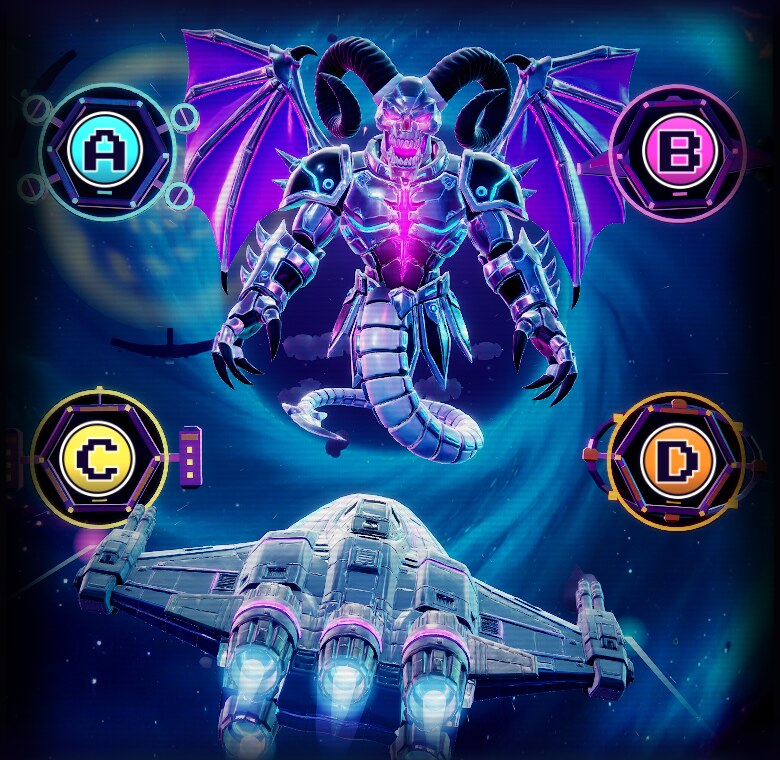
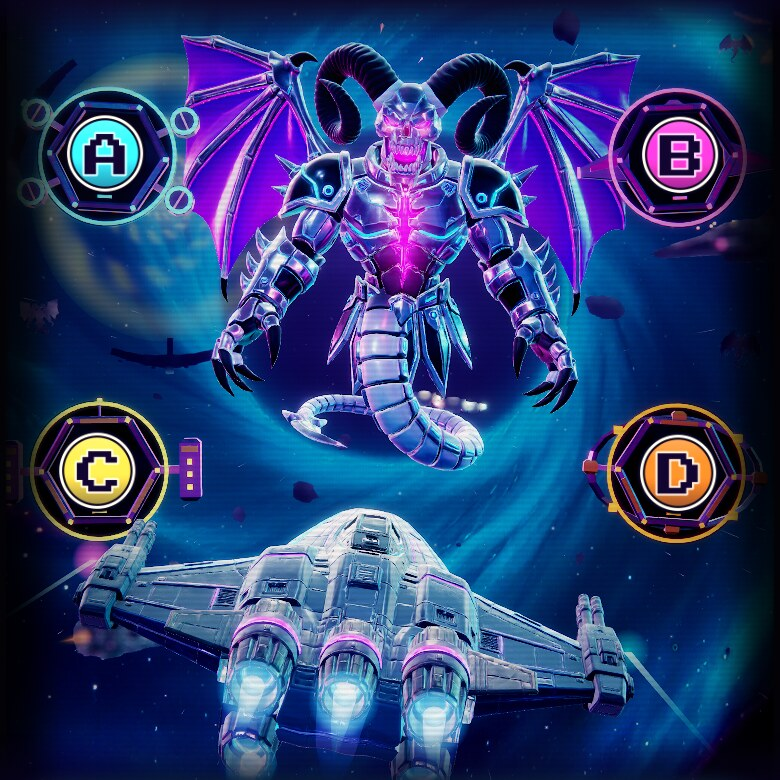
Captures of Risk Blaster's new pieces; the gold props half metal so they read gold in dark space
Strips: the allies' entrance (04), the brood in each region (01-03), the shield lost (23, new part
'shield'), the streak tier's bolt (22), the overlord's death in the band with the stars, its brood
scattering and the next one's entrance (17c and 05, new part 'deathband'). The band strips after the
first ones were taken at --dpr 1: the machine was saturated and dpr 2 frames passed the 30 s
screenshot limit. Boss Rush's scenario gains 'heart' and 'reward' parts.

Claude-Session: https://claude.ai/code/session_01SXN4PWw2h7NprrScNwTTGU

diff --git a/arcade/src/js/08e-propfx.js b/arcade/src/js/08e-propfx.js
@@ -14,12 +14,14 @@
 //   o: { size (world units tall), face (a camera: the prop faces it), turn (radians about its upright), hold, crack,
 //        onBreak (called on the frame it breaks: the caller's sparks and sound), dir, speed, n, life, up }
 if (GFX.extras === undefined) GFX.extras = true; // the background additions and effect props: a quality scaler may switch them off on slow frames
+// (the gold ones are made half metal: in dark space a mirror of gold has little to mirror and reads black, while gold
+// that takes the scene's own lamps reads gold anywhere)
 const PROP_KINDS = {
   shield: { model: "prop-shield", cut: 0, shards: 9, env: 1.1, glow: 2.2 },
   heart: { model: "prop-heart", cut: 0.3, shards: 11, env: 1.3, glow: 2.4 },
-  bolt: { model: "prop-bolt", cut: 0.36, env: 1.2, glow: 2.6 },
-  star: { model: "prop-star", cut: 0.19, many: 12, env: 1.3, glow: 2.2 },
-  coin: { model: "prop-coin", cut: 0, many: 10, env: 1.3, glow: 2 },
+  bolt: { model: "prop-bolt", cut: 0.36, env: 1.4, glow: 2.6, metal: 0.5, rough: 0.4 },
+  star: { model: "prop-star", cut: 0.19, many: 12, env: 1.5, glow: 2.4, metal: 0.45, rough: 0.42 },
+  coin: { model: "prop-coin", cut: 0, many: 10, env: 1.5, glow: 2, metal: 0.5, rough: 0.42 },
 };
 // A model's mesh as a centred geometry one unit tall, without what stands below `cut` (a share of its height, from its
 // foot). With shards, each triangle gets its own corners and the number of the shard it belongs to (nearest of a few
@@ -82,7 +84,7 @@ class PropFX {
     for (const kind of kinds) {
       const P = PROP_KINDS[kind], model = Assets.model(P.model);
       if (!model) continue;
-      tuneModel(model, { env: P.env, glow: P.glow });
+      tuneModel(model, { env: P.env, glow: P.glow, metal: P.metal, rough: P.rough });
       const g = propGeometry(model, P.cut, P.shards);
       if (!g) continue;
       let mesh, e;

diff --git a/arcade/tools/scenarios/blaster-combat.js b/arcade/tools/scenarios/blaster-combat.js
@@ -150,6 +150,16 @@ module.exports = async (cap) => {
     await ready(60);
     await still("16b-battered", { band: true });
   }
+  // ---- a shield lost, close: the shield comes up before the fighter and breaks apart (the band only)
+  if (has("shield")) {
+    await heal();
+    await page(() => { window.__arcade.Scenes.cur.enemy.atkN = 0; });
+    await cap.answer("W");
+    await cap.until(() => { const s = window.__arcade.Scenes.cur; return !!(s.iconFX && s.iconFX.k.shield && s.iconFX.k.shield.mesh.visible); }, 300);
+    await strip("23-shield-lost", 12, 2);
+    await cap.fast(40);
+    await ready();
+  }
   // ---- the streak reaches a new tier: the bolt spins up over the fighter
   if (has("tier")) {
     await heal();
@@ -159,6 +169,20 @@ module.exports = async (cap) => {
     await strip("22-streak-tier", 12, 5);
     await cap.fast(30);
     await ready();
+  }
+  // ---- the demon's death in the band only (the stars thrown out of the last blast, its brood scattering, allies
+  // crossing between the waves), then the next one's entrance with its brood gathering: a lighter strip than "death"'s
+  // whole screen, for a busy machine
+  if (has("deathband")) {
+    await heal();
+    await page(() => { const s = window.__arcade.Scenes.cur; s.inWave = 9; });
+    await cap.answer("R");
+    await cap.until(() => !!window.__arcade.Scenes.cur.quiz.sheet, 200);
+    await cap.next();
+    await strip("17c-death-band", 18, 8, { cols: 6 });
+    await cap.ask(1500);
+    await cap.until(() => { const e = window.__arcade.Scenes.cur.enemy; return e.alive && e.inT > 0.02; }, 600);
+    await strip("05-demon-entrance", 18, 7, { cols: 6 });
   }
   // ---- the demon's death, and the next one's entrance
   if (has("death")) {

diff --git a/arcade/tools/scenarios/boss-fight.js b/arcade/tools/scenarios/boss-fight.js
@@ -168,6 +168,25 @@ module.exports = async (cap) => {
     await strip("13-streak-tier", 8, 7, { cols: 4 });
     await cap.fast(30);
   }
+  // ---- a heart lost, close: the crystal heart comes up on the player's side and shatters (the band only)
+  if (has("heart")) {
+    await set({ hearts: 3, hp: 1 });
+    await ready(40, 0.2);
+    await cap.answer("W");
+    await cap.until(() => { const s = window.__arcade.Scenes.cur; return !!(s.iconFX && s.iconFX.k.heart && s.iconFX.k.heart.mesh.visible); }, 400);
+    await strip("14-heart-lost", 8, 3, { cols: 4 });
+    await cap.fast(60);
+  }
+  // ---- the last blast's reward in the band only: gold stars and egg coins thrown out toward the player
+  if (has("reward")) {
+    await set({ hp: 0.04, hearts: 3 });
+    await ready(40);
+    await cap.answer("R");
+    await cap.fast(18);
+    await cap.next();
+    await cap.until(() => { const s = window.__arcade.Scenes.cur; return !!(s.iconFX && s.iconFX.k.star && s.iconFX.k.star.mesh.visible); }, 900);
+    await strip("15-death-reward", 8, 5, { cols: 4 });
+  }
   // ---- death: the finishing blow, done for, then the fall, the chain, the last blast, the reward
   if (has("death")) {
     await set({ hp: 0.04, hearts: 3 });
